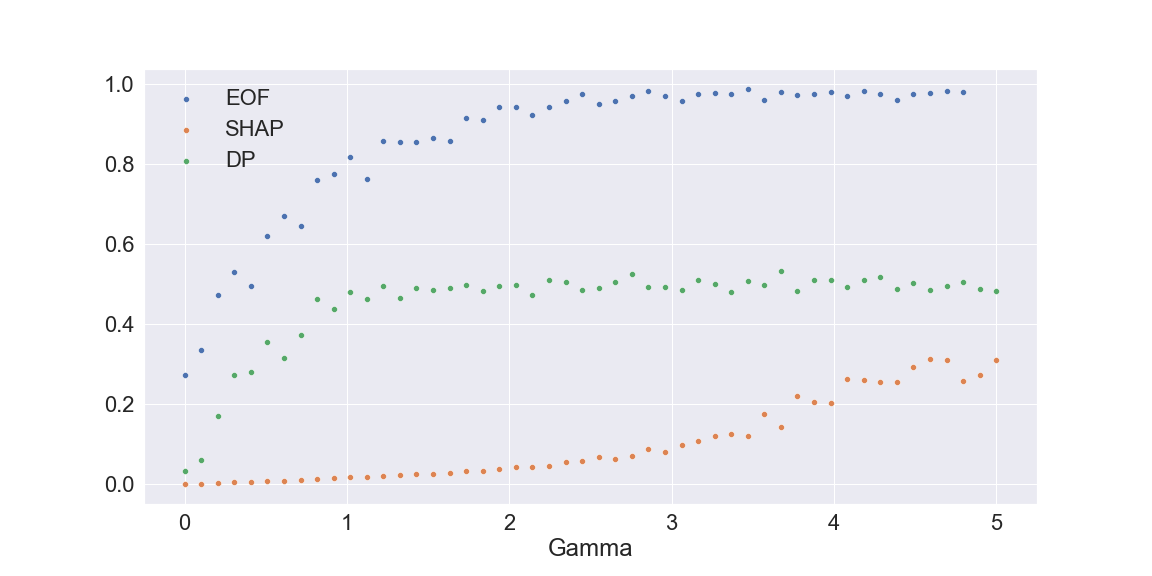
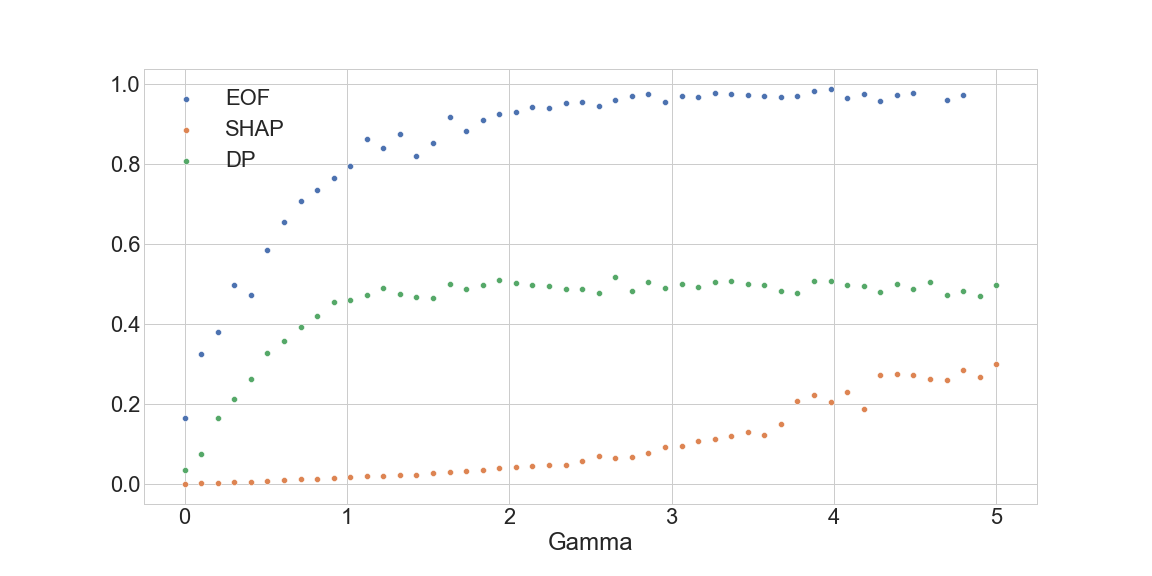
fair shift experiments white backdgorund

diff --git a/synthetic/fairShift.py b/synthetic/fairShift.py
@@ -1,5 +1,4 @@
 # %%
-from cProfile import label
 import numpy as np
 import pandas as pd
 import seaborn as sns
@@ -13,14 +12,17 @@ import shap
 
 from matplotlib import rcParams
 
-plt.style.use("seaborn-whitegrid")
+
 rcParams["axes.labelsize"] = 14
 rcParams["xtick.labelsize"] = 12
 rcParams["ytick.labelsize"] = 12
 rcParams["figure.figsize"] = 16, 8
 rcParams.update({"font.size": 16})
-
+plt.rcParams['axes.facecolor'] = 'white'
+plt.rcParams['axes.grid'] = True
+sns.set(font_scale=2)
 sns.set_style("whitegrid")
+plt.style.use("seaborn-whitegrid")
 # %%
 N = 5_000
 gamma = 1
@@ -70,9 +72,9 @@ for gamma in tqdm(np.linspace(0, 5, 50)):
     dp = ks_2samp(preds[A_te == 1], preds[A_te == -1]).statistic
     fair.append([gamma, white_tpr - black_tpr, dp, shap_test["Var3"].mean()])
 # %%
+#sns.set_style("whitegrid")
 res = pd.DataFrame(fair, columns=["Gamma", "Fairness", "DP", "SHAP"])
 plt.figure()
-sns.set(font_scale=2)
 sns.scatterplot(x="Gamma", y="Fairness", data=res, label="EOF")
 sns.scatterplot(x="Gamma", y="SHAP", data=res, label="SHAP")
 sns.scatterplot(x="Gamma", y="DP", data=res, label="DP")
@@ -80,6 +82,3 @@ plt.ylabel("")
 plt.legend()
 plt.savefig("images/syntheticFairnes.png")
 plt.show()
-
-
-# %%
